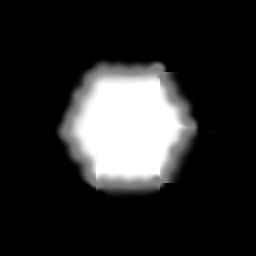
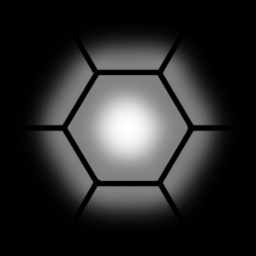
Grid Alignment I - it has to get worse before it gets better ;)

diff --git a/Assets/Scripts/WorldMap.cs b/Assets/Scripts/WorldMap.cs
@@ -14,7 +14,6 @@ public class WorldMap : MonoBehaviour {
 
 	enum OffsetMode {fromZero, fromCenter};
 
-	// make invisible in inspector?
 	public bool generated = false;
 
 	void Start ()
@@ -130,5 +129,38 @@ public class WorldMap : MonoBehaviour {
 		generated = true;
 		// apply
 		main.Apply();
+	}
+
+	public Vector2 worldPointToTile (Vector2 worldPoint)
+	{
+		Vector2 tileNr = Vector2.zero;
+		// calculate (reverse gethexCenter)
+		tileNr.x = (worldPoint.x + collider.bounds.extents.x - getOffset(OffsetMode.fromZero).x)/(1.5f*hexSideLength);
+
+		Debug.Log ("Tile#" + tileNr);
+		return tileNr;
+	}
+
+	public Vector2 tileToWorldPoint (Vector2 tileNr)
+	{
+		Vector2 worldPoint = Vector2.zero;
+		// fromzero because fromCenter is broken (or is it ...)
+		// texture space ;)
+		worldPoint = getHexCenter ((int)tileNr.x, (int)tileNr.y) + getOffset(OffsetMode.fromZero);
+		// from texture to world space
+		worldPoint.x /= main.width;
+		worldPoint.y /= main.height;
+		// sideLength in unitymeters
+		//worldPoint *= (1.5f * ((float)hexSideLength/(float)main.width));
+		worldPoint.x *= collider.bounds.extents.x;
+		worldPoint.y *= collider.bounds.extents.y;
+		worldPoint *= 1.5f;
+		worldPoint -= new Vector2(collider.bounds.extents.x, collider.bounds.extents.y);
+
+		Debug.Log ("WorldPoint: " + worldPoint + " = " 
+		    + (getHexCenter ((int)tileNr.x, (int)tileNr.y) + getOffset(OffsetMode.fromZero))
+			+ " / (" + main.width + ", " + main.height + ")"
+			+ " * " + (1.5f * ((float)hexSideLength/(float)main.width)));
+		return worldPoint;
 	}
 }

diff --git a/Assets/Scripts/MapControls.cs b/Assets/Scripts/MapControls.cs
@@ -1,15 +1,30 @@
 using UnityEngine;
 using System.Collections;
+using UnityEngine.UI;
 
 public class MapControls : MonoBehaviour 
 {
 
-	public GameObject map;
+	public WorldMap map;
 
 	public Player player;
 
+	public Text water;
+
+	public Text oxygen;
+
+	public Text health;
+
+	void Start ()
+	{
+		player.goToTile (new Vector2 (0, 1), map);
+	}
+
 	void Update ()
 	{
+		// test
+		updateStatsDisplay ();
+
 		RaycastHit hitInfo;
 		if (Input.GetButtonDown ("Fire1"))
 		{
@@ -20,11 +35,16 @@ public class MapControls : MonoBehaviour
 				/*hitPoint.x /= map.gameObject.collider.bounds.extents.x;
 				hitPoint.y /= map.gameObject.collider.bounds.extents.y;*/
 
-				player.goToTile (hitPoint.x, hitPoint.y);
-
-				Debug.Log (hitPoint);
+				player.goToTile (map.worldPointToTile(new Vector2 (hitPoint.x, hitPoint.y)), map);
+				player.consumeResources ();
 			}
-			// Debug.DrawLine (Camera.main.ScreenToWorldPoint(Input.mousePosition), Camera.main.ScreenToWorldPoint(Input.mousePosition) + Camera.main.transform.forward);
 		}
+	}
+
+	void updateStatsDisplay ()
+	{
+		water.text = " h2o: " + player.water; 
+		oxygen.text = " o2: " + player.oxygen;
+		health.text = " hp: " + player.health;
 	}
 }

diff --git a/Assets/Scripts/Player.cs b/Assets/Scripts/Player.cs
@@ -6,21 +6,33 @@ public class Player : MonoBehaviour
 	// what tile is the player on?
 	Vector2 position = Vector2.zero;
 
+	public int maxHealth = 3;
 	public int health = 3;
 
+	public int inventorySpace = 60;
 	public int water = 50;
+	public int oxygen = 10;
 
 	void Start ()
 	{
-		goToTile (0, 0);
+
 	}
 
 	// test
-	public void goToTile (float x, float y)
+	// assumes that player only moves 1 tile
+	// has to do check if moving to tile is possible
+	// probably return true on success for feedback to wherever this is called from
+	public void goToTile (Vector2 tileNr, WorldMap map)
 	{
-		position.x = x;
-		position.y = y;
-		transform.position = new Vector3 (x, y, transform.position.z);
+		position = tileNr;
+		Vector2 worldPosition = map.tileToWorldPoint(tileNr);
+		transform.position = new Vector3 (worldPosition.x, worldPosition.y, transform.position.z);
+	}
+
+	public void consumeResources ()
+	{
+		water--;
+		oxygen--;
 	}
 }
 
